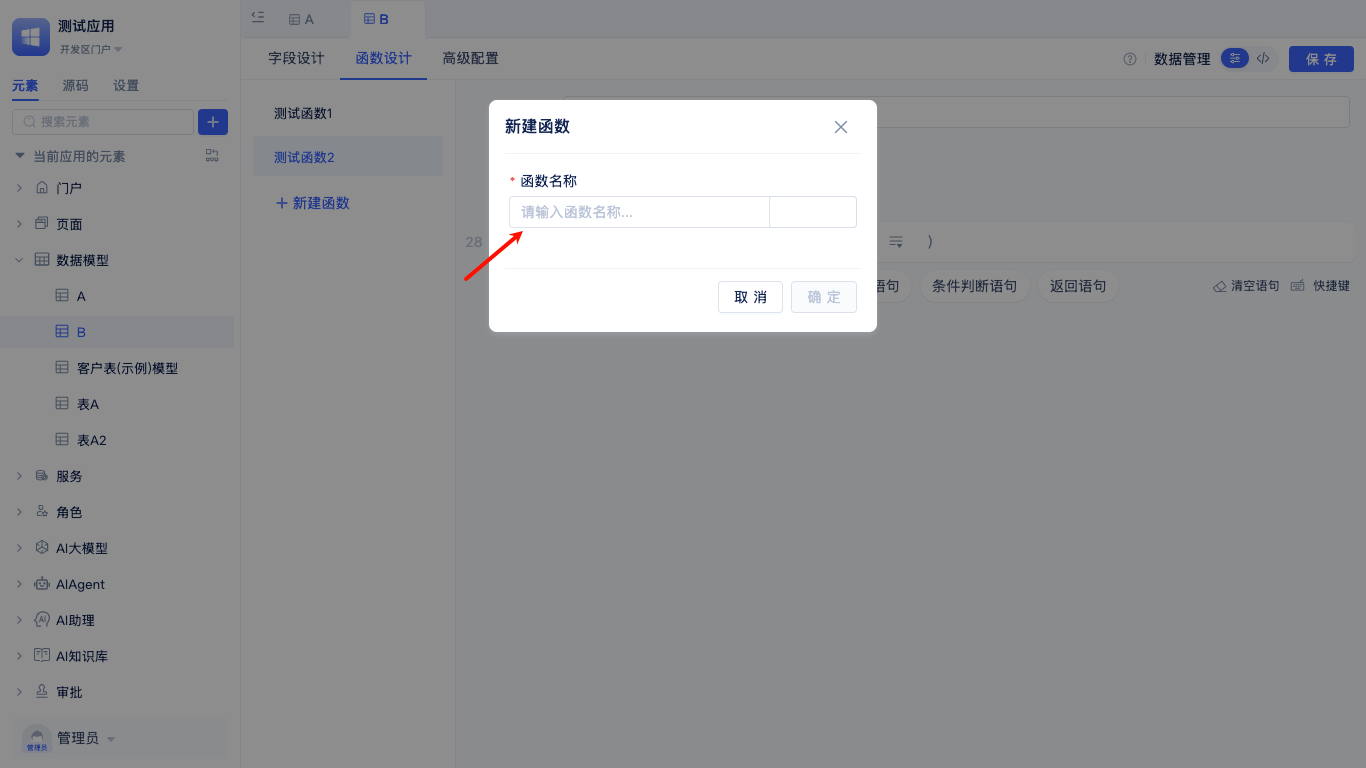
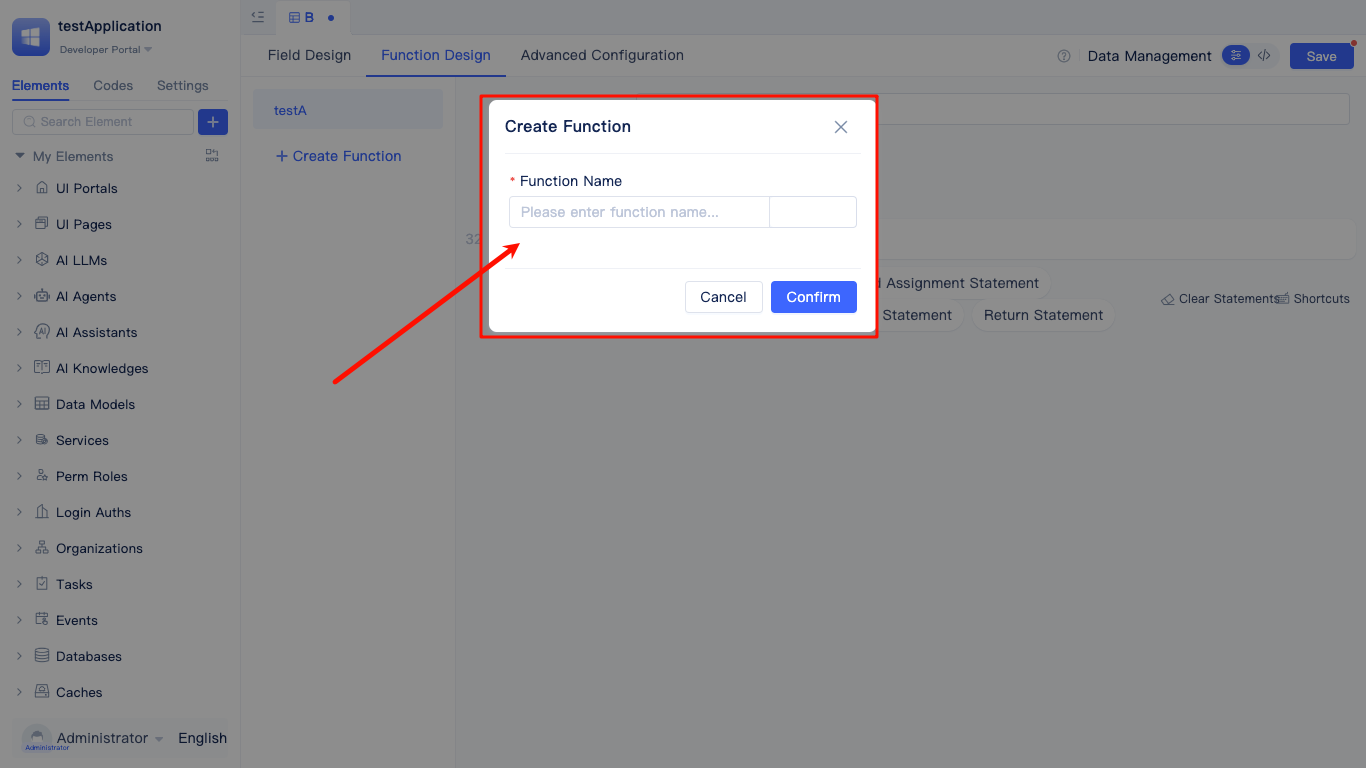
fix: 优化模型相关文档

diff --git a/docs/devguide/business-logic-development/background-tasks.md b/docs/devguide/business-logic-development/background-tasks.md
@@ -3,7 +3,7 @@ sidebar_position: 4
 slug: background-tasks
 ---
 
-# Background Tasks
+# Background Tasks {#background-tasks}
 Background tasks are the core capability for implementing periodic and automated business processing in the JitTask framework. Through background tasks, developers can allow the system to automatically execute specific business logic on a scheduled or on-demand basis without manual intervention.
 
 JitAi provides two types of background tasks: `Scheduled Tasks` that execute at fixed time intervals, and `Date Field Tasks` that trigger based on date fields in data tables.

diff --git a/docs/devguide/data-modeling/create-data-table-from-existing-tables.md b/docs/devguide/data-modeling/create-data-table-from-existing-tables.md
@@ -17,4 +17,4 @@ Click the `Select Database Table` input box to display all tables in the databas
 
 ![Field Mapping](./img/field-mapping.png)
 
-After selecting a database table, click `OK` to enter the field configuration page. Click `Generate Data Model Fields from Associated Database Table`, then map the database fields to corresponding data types.
+After selecting a database table, click `Confirm` to enter the field configuration page. Click `Generate Data Model Fields from Associated Database Table`, then map the database fields to corresponding data types.

diff --git a/docs/devguide/data-modeling/create-data-model-functions.md b/docs/devguide/data-modeling/create-data-model-functions.md
@@ -13,7 +13,7 @@ Developers can access the function design interface by clicking the `Function De
 
 ![Model Function 2](./img/model-function-2.png)
 
-Click `OK` to complete function creation and begin editing the function logic.
+Click `Confirm` to complete function creation and begin editing the function logic.
 
 ![Model Function 3](./img/model-function-3.png)
 
